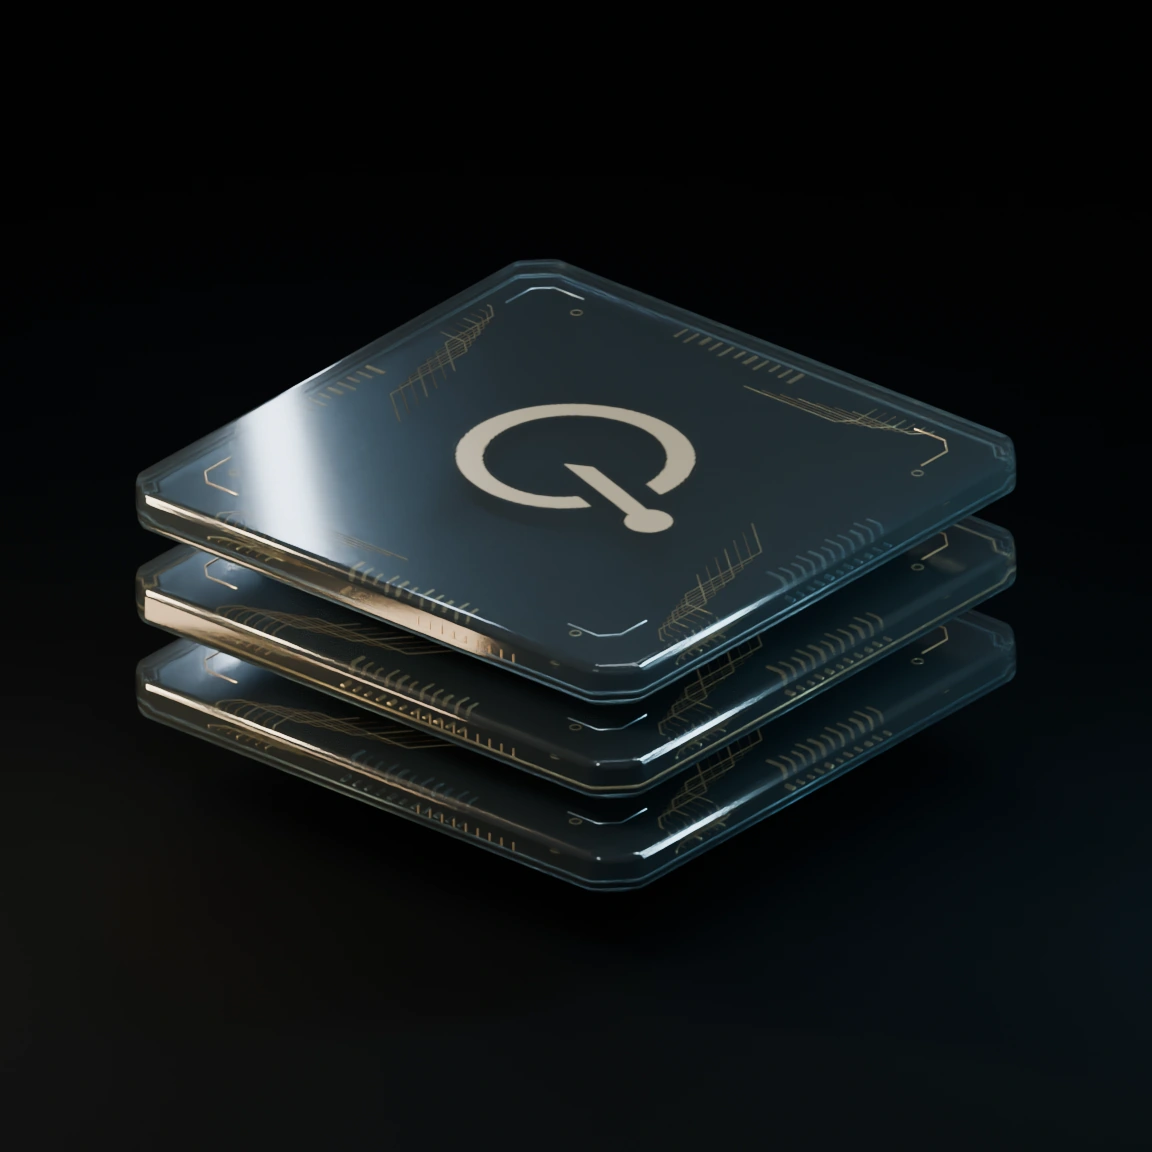
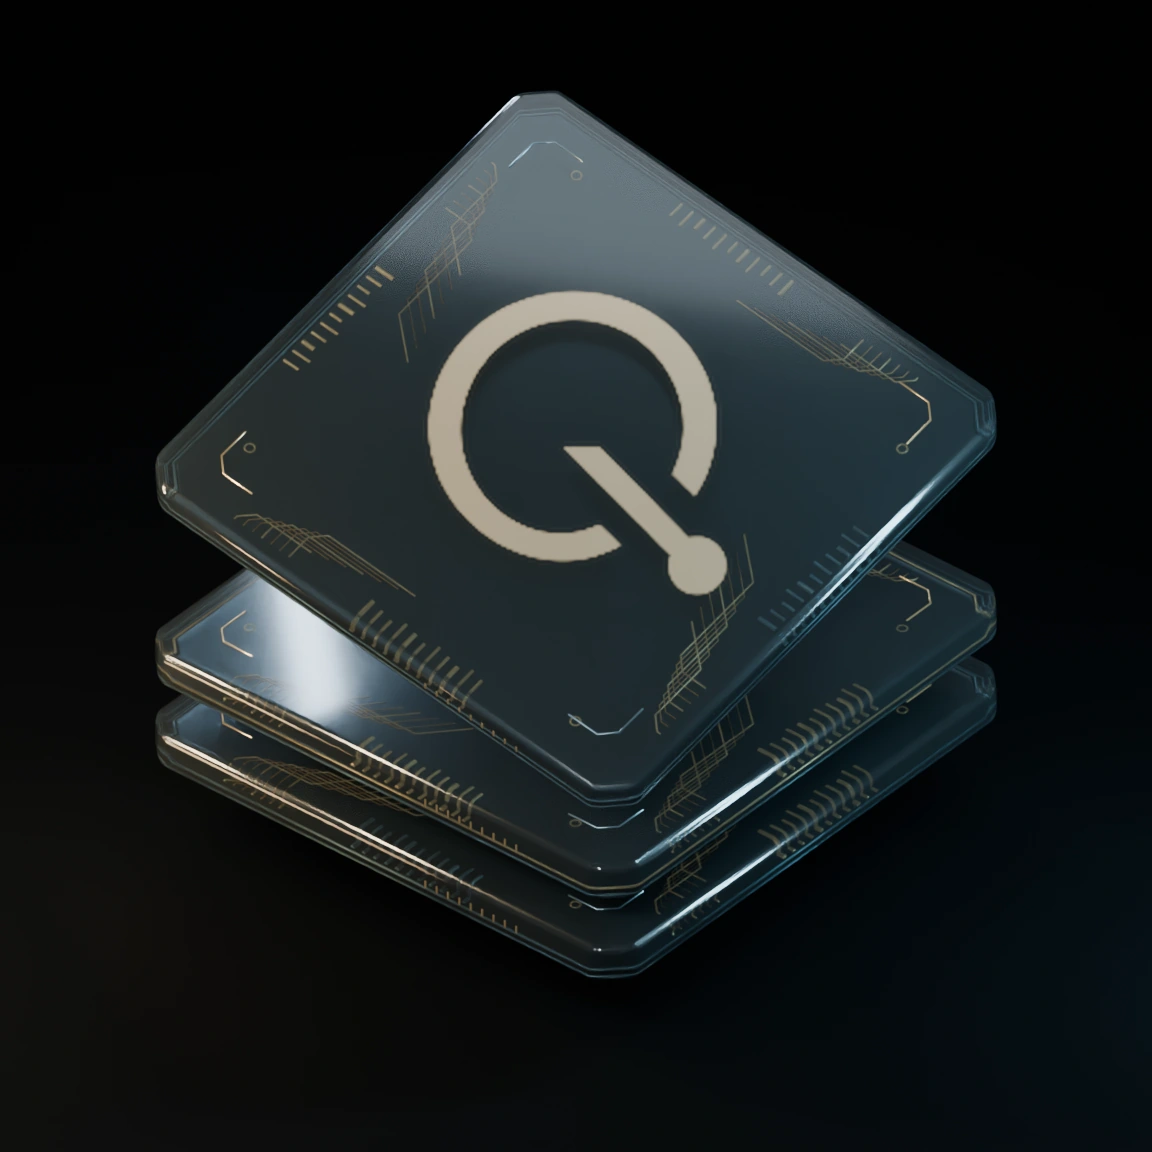
Remove the guest-list example and clarify Quorum’s Mongolian identity

Changed region(s): [[0.0938, 0.0625, 0.9062, 0.8438]]

diff --git a/assets/site.css b/assets/site.css
@@ -22,7 +22,7 @@
   background: var(--ink); color: var(--white); scroll-behavior: smooth; scroll-padding-top: 90px;
 }
 * { box-sizing: border-box; }
-body, figure, h1, h2, h3, p, ol { margin: 0; }
+body, figure, h1, h2, h3, p { margin: 0; }
 a { color: inherit; text-decoration: none; }
 a, button { -webkit-tap-highlight-color: transparent; }
 button { color: inherit; font: inherit; }
@@ -43,23 +43,23 @@ a:focus-visible, button:focus-visible { outline: 2px solid var(--ice); outline-o
 .languages a { border-radius: inherit; min-width: 38px; text-align: center; padding: 6px; color: var(--silver); font: 650 .74rem/1.45 Manrope, sans-serif; }
 .languages a[aria-current="page"] { color: #182328; background: linear-gradient(#f1f5f3,#aab9bb); box-shadow: inset 0 1px white; }
 .hero {
-  position: relative; isolation: isolate; overflow: hidden; padding-bottom: clamp(36px, 4.3vw, 72px);
+  position: relative; isolation: isolate; overflow: hidden;
   background: radial-gradient(ellipse at 72% 40%, #22343a80, transparent 44%), radial-gradient(ellipse at 100% 80%, #35322658, transparent 34%), linear-gradient(115deg, #0a0e13, #10181d 68%, #0d1216);
   border-bottom: 1px solid var(--edge);
 }
 .hero::before { content: ""; position: absolute; inset: 0; z-index: -1; background-image: radial-gradient(#c2dae04a .65px, transparent .8px); background-size: 21px 21px; mask-image: linear-gradient(90deg, transparent 23%, #0004 59%, #0009); }
-.hero-grid { display: grid; grid-template-columns: 1fr 1fr; align-items: center; position: relative; min-height: clamp(440px, 37.8vw, 605px); }
+.hero-grid { display: grid; grid-template-columns: 1fr 1fr; align-items: center; position: relative; min-height: clamp(470px, 42vw, 640px); }
 .hero-copy { z-index: 1; padding-block: clamp(48px, 5vw, 78px); }
-.eyebrow, .workflow figcaption { font: 600 .72rem/1.45 ui-monospace, Consolas, monospace; text-transform: uppercase; letter-spacing: .12em; color: var(--silver); }
+.eyebrow { font: 600 .72rem/1.45 ui-monospace, Consolas, monospace; text-transform: uppercase; letter-spacing: .12em; color: var(--silver); }
 .eyebrow { display: flex; align-items: center; gap: 11px; }
-.eyebrow > i, .signal { position: relative; width: 22px; height: 1px; background: var(--gold); flex: none; }
-.eyebrow > i::after, .signal::after { content: ""; position: absolute; right: 0; top: -2px; width: 5px; height: 5px; background: var(--gold); border-radius: 100%; box-shadow: 0 0 9px #f0d09a65; }
+.eyebrow > i { position: relative; width: 22px; height: 1px; background: var(--gold); flex: none; }
+.eyebrow > i::after { content: ""; position: absolute; right: 0; top: -2px; width: 5px; height: 5px; background: var(--gold); border-radius: 100%; box-shadow: 0 0 9px #f0d09a65; }
 h1 { font-size: clamp(3.7rem, 6.55vw, 6.8rem); line-height: 1.01; letter-spacing: -.058em; word-spacing: .055em; font-weight: 510; margin: .26em 0 .28em -.055em; }
 html:lang(mn) h1 { letter-spacing: -.046em; }
 h1 span, h1 em { display: block; }
 h1 em { font-weight: 500; font-style: normal; padding: 0 .045em .07em 0; color: var(--ice); background: linear-gradient(102deg, #f3e2c6, #cad7d0 45%, #a6d8dd 75%); background-clip: text; -webkit-text-fill-color: transparent; width: fit-content; }
 .hero-desc { font-size: clamp(1.05rem, 1.3vw, 1.25rem); line-height: 1.62; max-width: 42ch; color: var(--silver); text-wrap: pretty; }
-.actions { margin-top: clamp(22px, 2.3vw, 35px); display: flex; align-items: center; flex-wrap: wrap; gap: 15px 26px; }
+.hero-copy .button { margin-top: clamp(22px, 2.3vw, 35px); }
 .button, .text-link { display: inline-flex; align-items: center; min-height: 44px; gap: 13px; }
 .button { min-height: 47px; padding: 11px 18px; color: #142027; border: 1px solid #e9f0ef; border-radius: 8px; background: linear-gradient(170deg, #f9faf3 8%, #c2d1d0 70%, #abbfc1); box-shadow: inset 0 -2px 3px #52636939, 0 5px 22px #0005; }
 .button span { font-size: 1.1rem; line-height: 1; }
@@ -67,41 +67,17 @@ h1 em { font-weight: 500; font-style: normal; padding: 0 .045em .07em 0; color: 
 .text-link { color: var(--silver); }
 .text-link span { color: var(--ice); }
 .instrument { align-self: stretch; position: relative; min-width: 0; }
-.circuit-board { position: absolute; width: 111%; aspect-ratio: 1; left: 52%; top: 50%; transform: translate(-50%,-50%); mix-blend-mode: screen; }
-.core { width: 100%; height: 100%; display: block; mix-blend-mode: screen; mask-image: radial-gradient(ellipse closest-side, black 74%, transparent 100%); }
-.glass-light { position: absolute; inset: 0; pointer-events: none; opacity: 0; background: linear-gradient(115deg, transparent 40%, #c9f5ff6b 49%, #fff9e99c 50%, transparent 59%) 120% center / 260% 100%; clip-path: polygon(12% 42%,46.5% 23%,49.2% 22.8%,87.4% 38.8%,87.8% 41.2%,54% 58.2%,50.2% 59%,13% 45.5%); }
+.circuit-board { position: absolute; width: 104%; aspect-ratio: 1; left: 52%; top: 52%; transform: translate(-50%,-50%); mix-blend-mode: screen; }
+.core { width: 100%; height: 100%; display: block; mix-blend-mode: screen; mask-image: radial-gradient(ellipse closest-side, black 87%, transparent 100%); }
 .trace { position: absolute; z-index: -1; height: 1px; width: 22%; background: linear-gradient(90deg, transparent, #97dce39e); transform-origin: right; }
-.rail-in { left: -9.9%; top: 50.8%; transform: rotate(-17deg); }
-.rail-out { right: -9.9%; top: 49.2%; transform-origin: left; transform: rotate(-17deg); background: linear-gradient(90deg,#e5c5989e,transparent); }
+.rail-in { right: 86.2%; top: 55.9%; transform: rotate(-17deg); }
+.rail-out { left: 86.2%; top: 54.1%; transform-origin: left; transform: rotate(-17deg); background: linear-gradient(90deg,#e5c5989e,transparent); }
 .trace.fine { margin-top: 6px; opacity: .36; }
 .trace:not(.fine)::after { content: ""; position: absolute; inset: -1px 0; background: linear-gradient(90deg, transparent 15%, #cef7f7 85%, white); border-radius: 3px; width: 23%; opacity: 0; filter: drop-shadow(0 0 4px #8bdfed); }
 .rail-out:not(.fine)::after { background: linear-gradient(90deg, transparent, #ffe0b0); }
 .port { position: absolute; display: block; width: 5px; height: 5px; border-radius: 50%; background: #d0f8fa; box-shadow: 0 0 9px 2px #8be2e69c; }
-.in-port { left: 12.1%; top: 50.8%; translate: -50% -50%; }
-.out-port { left: 87.9%; top: 49.2%; translate: -50% -50%; background: #ffe3ae; box-shadow: 0 0 9px 2px #f8cd7b80; }
-.flow-wrap { position: relative; z-index: 1; }
-.workflow { display: grid; grid-template-columns: minmax(150px, .68fr) minmax(0, 2.8fr) auto; align-items: center; gap: clamp(12px, 2.6vw, 40px); padding: 20px clamp(16px, 2.2vw, 34px); border: 1px solid #cedee43a; border-radius: 15px; background: linear-gradient(130deg,#b2dce31c,#6d7c8311 34%,#38484924 75%,#e3d7b91c); box-shadow: inset 0 1px #f0fdff27, inset 0 -1px #0003, 0 12px 38px #0003; backdrop-filter: blur(20px); }
-.workflow figcaption { color: #d4e5e5; display: flex; align-items: center; gap: 10px; max-width: 24ch; font-size: .68rem; }
-.workflow:focus-visible { outline: 2px solid var(--ice); outline-offset: 4px; }
-.signal { width: 12px; background: var(--ice); }
-.signal::after { background: var(--ice); }
-.steps { display: flex; list-style: none; padding: 0; min-width: 0; }
-.steps li { display: flex; align-items: center; gap: clamp(6px, .75vw, 12px); flex: 1 1 auto; color: #e7edeb; font-size: clamp(.78rem, 1vw, .96rem); line-height: 1.3; font-weight: 550; }
-.steps li:last-child { flex: 0 1 auto; }
-.step-icon { width: 33px; height: 33px; flex: none; border: 1px solid #8fa9b14d; border-radius: 8px; display: grid; place-items: center; background: linear-gradient(140deg,#3a4a4d9e,#141c22); color: var(--ice); }
-.step-icon i { display: block; position: relative; }
-.list-icon { width: 12px; height: 13px; border: 1.25px solid currentColor; border-radius: 2px; }
-.list-icon::after { content: ""; position: absolute; left: 2px; right: 2px; top: 3px; height: 1px; background: currentColor; box-shadow: 0 3px currentColor,0 6px currentColor; }
-.check-icon { width: 14px; height: 15px; background: linear-gradient(currentColor,currentColor) left 3px/100% 1px no-repeat,linear-gradient(currentColor,currentColor) left 10px/100% 1px no-repeat; }
-.check-icon::before, .check-icon::after { content: ""; position: absolute; width: 3px; height: 3px; border: 1px solid currentColor; border-radius: 50%; background: #203036; }
-.check-icon::before { top: 1px; left: 3px; }.check-icon::after { top: 8px; right: 2px; }
-.review-icon { width: 14px; height: 8px; border-left: 1.6px solid currentColor; border-bottom: 1.6px solid currentColor; transform: translateY(-2px) rotate(-45deg); }
-.wire { position: relative; flex: 1 0 12px; margin-right: clamp(5px,.9vw,14px); height: 1px; background: #829da269; overflow: visible; }
-.wire::before { content: ""; position: absolute; right: 0; width: 4px; height: 4px; border-top: 1px solid #a9bdbf; border-right: 1px solid #a9bdbf; transform: translateY(-2px) rotate(45deg); }
-.wire::after { content: ""; position: absolute; width: 28%; left: 0; top: -1px; height: 3px; border-radius: 5px; background: linear-gradient(90deg,transparent,var(--ice)); filter: drop-shadow(0 0 3px #6bffff); opacity: 0; }
-.replay { border: 1px solid var(--edge); border-radius: 50%; background: #10191e; cursor: pointer; min-width: 44px; min-height: 44px; font: 400 25px/1 "Segoe UI Symbol", sans-serif; }
-.replay:hover { background: #27343b; color: var(--ice); }
-.replay[hidden] { display: none; }
+.in-port { left: 13.8%; top: 55.9%; translate: -50% -50%; }
+.out-port { left: 86.2%; top: 54.1%; translate: -50% -50%; background: #ffe3ae; box-shadow: 0 0 9px 2px #f8cd7b80; }
 .story { padding-block: clamp(68px, 8vw, 128px); display: grid; grid-template-columns: 1.38fr .78fr; align-items: center; gap: clamp(32px, 6.5vw, 105px); }
 .story h2 { font-size: clamp(2rem, 3.25vw, 3.65rem); font-weight: 470; line-height: 1.15; letter-spacing: -.052em; margin: 24px 0 32px; text-wrap: pretty; }
 .principles { display: grid; grid-template-columns: 1fr 1fr; gap: 8%; padding-top: 22px; border-top: 1px solid var(--edge); }
@@ -123,24 +99,13 @@ h1 em { font-weight: 500; font-style: normal; padding: 0 .045em .07em 0; color: 
 .footer { display: flex; align-items: center; justify-content: space-between; padding-block: 21px; border-top: 1px solid var(--edge); }
 .footer img { width: 93px; }
 @keyframes signal-travel { 0% {transform:translateX(0);opacity:0} 15%,77% {opacity:1} 100% {transform:translateX(263%);opacity:0} }
-@keyframes terminal-glow { 35%,65% {border-color:#b5e7eac9; color:white; box-shadow:0 0 15px #91c6d132,inset 0 0 13px #85c4da25} }
 @keyframes arrive { from {transform:translateY(13px); opacity:.2} to {transform:none;opacity:1} }
-@keyframes refract { 0% {background-position: 120% center;opacity:0} 20%,70% {opacity:.48} 100% {background-position: -20% center;opacity:0} }
 @media (prefers-reduced-motion: no-preference) {
   .hero-copy h1 { animation: arrive .65s ease-out both; }
-  .hero.running .wire::after { animation: signal-travel .78s ease-in-out .5s both; }
-  .hero.running li:nth-child(2) .wire::after { animation-delay: 1.85s; }
-  .hero.running .step-icon { animation: terminal-glow .95s ease-out both; }
-  .hero.running li:nth-child(2) .step-icon { animation-delay: 1.1s; }
-  .hero.running li:nth-child(3) .step-icon { animation-delay: 2.45s; }
-  .hero.running .rail-in:not(.fine)::after { animation: signal-travel 1.25s ease-in .1s both; }
-  .hero.running .rail-out:not(.fine)::after { animation: signal-travel 1.25s ease-out 1.8s both; }
-  .hero.running .glass-light { animation: refract 1.65s ease-in-out .82s both; }
+  .rail-in:not(.fine)::after { animation: signal-travel 1.25s ease-in .1s both; }
+  .rail-out:not(.fine)::after { animation: signal-travel 1.25s ease-out 1.8s both; }
 }
 @media (max-width: 1000px) {
-  .workflow { grid-template-columns: 1fr auto; gap: 12px; }
-  .workflow figcaption { grid-column: 1; max-width: none; }.steps { grid-row: 2; }
-  .replay { grid-row: 1 / 3; grid-column: 2; }
   .hero-grid { grid-template-columns: 1.08fr 1fr; }
   .story { grid-template-columns: 1.4fr .7fr; gap: 24px; }
 }
@@ -155,16 +120,8 @@ h1 em { font-weight: 500; font-style: normal; padding: 0 .045em .07em 0; color: 
   h1 { font-size: clamp(3.45rem,10.4vw,5rem); }
   .hero-desc { font-size: 1rem; max-width: 41ch; }
   .eyebrow { font-size: .65rem; }
-  .instrument { height: clamp(210px, 52vw, 315px); margin: 5px 0 0; }
+  .instrument { height: clamp(245px, 75vw, 380px); margin: 14px 0 9px; }
   .circuit-board { width: min(100%, 410px); left: 50%; }
-  .workflow { position: relative; grid-template-columns: 1fr; gap: 15px; padding: 16px; }
-  .steps { grid-row:auto; }
-  .steps li { flex:1 1 0; flex-direction:column; justify-content:flex-start; text-align:center; font-size:.77rem; gap:8px; position:relative; }
-  .steps li:last-child { flex:1 1 0; }
-  .step-icon { width:31px; height:31px; }
-  .wire { position:absolute; left:calc(50% + 21px); right:calc(-50% + 21px); top:15px; margin:0; }
-  .replay { position:absolute; right:5px; top:1px; grid-row:auto; grid-column:auto; border:0; background:transparent; font-size:20px; }
-  .workflow figcaption { padding-right:25px; }
   .story { grid-template-columns: 1fr; gap: 30px; padding-block: 51px; }
   .story h2 { margin: 18px 0 25px; }
   .place img { aspect-ratio:2.1; object-position:50% 42%; }
@@ -178,7 +135,6 @@ h1 em { font-weight: 500; font-style: normal; padding: 0 .045em .07em 0; color: 
 }
 @media (prefers-reduced-motion: reduce) {
   :root { scroll-behavior: auto; }
-  .replay { display: none; }
 }
 @media (forced-colors: active) {
   h1 em { -webkit-text-fill-color: currentColor; }

diff --git a/index.html b/index.html
@@ -9,15 +9,14 @@
   <meta property="og:type" content="website">
   <meta property="og:title" content="Quorum — Монголд бүтээсэн программ хангамж">
   <meta property="og:description" content="Өдөржин мэдээлэл хуулж суух ажлыг хэдхэн мөр кодоор шийдэж болно. Бид ийм давтагддаг ажлыг автоматжуулах программ бүтээдэг.">
-  <meta property="og:image" content="https://quorum.mn/assets/optical-core.webp">
+  <meta property="og:image" content="https://quorum.mn/assets/optical-core.webp?v=2">
   <meta property="og:url" content="https://quorum.mn/">
   <link rel="canonical" href="https://quorum.mn/">
   <link rel="alternate" hreflang="mn" href="https://quorum.mn/">
   <link rel="alternate" hreflang="en" href="https://quorum.mn/en/">
   <link rel="alternate" hreflang="x-default" href="https://quorum.mn/">
   <link rel="icon" href="./assets/quorum.png?v=2" type="image/png">
-  <link rel="stylesheet" href="./assets/site.css?v=glass">
-  <script defer src="./assets/flow.js"></script>
+  <link rel="stylesheet" href="./assets/site.css?v=glass2">
 </head>
 <body id="top">
   <a class="skip" href="#content">Үндсэн хэсэг рүү очих</a>
@@ -40,40 +39,25 @@
           <p class="eyebrow studio"><i aria-hidden="true"></i>Монголын программ хангамжийн студи</p>
           <h1 id="hero-title"><span>Хүний цаг</span><em>үнэ цэнтэй.</em></h1>
           <p class="hero-desc">Өдөржин мэдээлэл хуулж суух ажлыг хэдхэн мөр кодоор шийдэж болно. Бид ийм давтагддаг ажлыг автоматжуулах программ бүтээдэг.</p>
-          <div class="actions">
-            <a class="button" href="#workflow">Жишээг үзэх<span aria-hidden="true">→</span></a>
-            <a class="text-link" href="https://intel.quorum.mn/">Дэлгүүрт зочлох<span aria-hidden="true">↗</span></a>
-          </div>
+          <a class="button" href="https://intel.quorum.mn/">Дэлгүүрт зочлох<span aria-hidden="true">↗</span></a>
         </div>
         <div class="instrument" aria-hidden="true">
           <div class="circuit-board">
             <i class="trace rail-in"></i><i class="trace rail-out"></i>
             <i class="trace rail-in fine"></i><i class="trace rail-out fine"></i>
-            <img class="core" src="./assets/optical-core.webp" alt="" width="1152" height="1152" fetchpriority="high">
-            <i class="glass-light"></i>
+            <img class="core" src="./assets/optical-core.webp?v=2" alt="" width="1152" height="1152" fetchpriority="high">
             <i class="port in-port"></i><i class="port out-port"></i>
           </div>
         </div>
-      </div>
-      <div class="wrap flow-wrap">
-        <figure class="workflow" id="workflow" tabindex="-1">
-          <figcaption><i aria-hidden="true" class="signal"></i>Зочдын бүртгэлийг автоматжуулах нь</figcaption>
-          <ol class="steps">
-            <li><span class="step-icon"><i class="list-icon" aria-hidden="true"></i></span>Зочдын жагсаалт<i class="wire" aria-hidden="true"></i></li>
-            <li><span class="step-icon"><i class="check-icon" aria-hidden="true"></i></span>Давхардлыг шалгах<i class="wire" aria-hidden="true"></i></li>
-            <li><span class="step-icon"><i class="review-icon" aria-hidden="true"></i></span>Хянахад бэлэн</li>
-          </ol>
-          <button type="button" class="replay" aria-label="Жишээг дахин үзэх" title="Жишээг дахин үзэх" hidden><span aria-hidden="true">↻</span></button>
-        </figure>
       </div>
     </section>
     <section id="story" class="story wrap" aria-labelledby="story-title">
       <div class="story-copy">
         <p class="eyebrow"><i aria-hidden="true"></i>Бидний тухай</p>
-        <h2 id="story-title">Манай Quorum баг Монголд ажилладаг. Бид өдөр тутмын ажилд хэрэгтэй программ, гарын авлагаа монгол, англи хэлээр бүтээдэг.</h2>
+        <h2 id="story-title">Quorum бол Монголын программ хангамжийн компани. Бид хүмүүсийн өдөр бүр гараар давтан хийдэг ажлыг автоматжуулдаг.</h2>
         <div class="principles">
           <article><h3>Бидний эрхэм зорилго</h3><p>Эхлээд бид хүмүүс ажлаа хэрхэн хийдгийг ажигладаг. Тэгээд байнга давтагддаг хэсгийг нь автоматжуулж, хүн өөрөө үр дүнг нь шалгах боломжтой программ бичиж туршдаг.</p></article>
-          <article><h3>Бидний зорилго</h3><p>Жижиг багийнхан зочноо угтах, үйлчлүүлэгчдээ туслах завтай байж, орой ажлаа цагтаа дуусгаасай гэж бид хүсдэг.</p></article>
+          <article><h3>Бидний зорилго</h3><p>Хүмүүс шийдвэрээ яаралгүй гаргаж, хамт ажилладаг хүндээ туслах завтай байгаасай гэж бид хүсдэг.</p></article>
         </div>
       </div>
       <figure class="place">

diff --git a/en/index.html b/en/index.html
@@ -9,15 +9,14 @@
   <meta property="og:type" content="website">
   <meta property="og:title" content="Quorum — Software made in Mongolia">
   <meta property="og:description" content="A few lines of code can spare someone a day of copying and pasting. We build software for the work that keeps repeating.">
-  <meta property="og:image" content="https://quorum.mn/assets/optical-core.webp">
+  <meta property="og:image" content="https://quorum.mn/assets/optical-core.webp?v=2">
   <meta property="og:url" content="https://quorum.mn/en/">
   <link rel="canonical" href="https://quorum.mn/en/">
   <link rel="alternate" hreflang="mn" href="https://quorum.mn/">
   <link rel="alternate" hreflang="en" href="https://quorum.mn/en/">
   <link rel="alternate" hreflang="x-default" href="https://quorum.mn/">
   <link rel="icon" href="../assets/quorum.png?v=2" type="image/png">
-  <link rel="stylesheet" href="../assets/site.css?v=glass">
-  <script defer src="../assets/flow.js"></script>
+  <link rel="stylesheet" href="../assets/site.css?v=glass2">
 </head>
 <body id="top">
   <a class="skip" href="#content">Skip to content</a>
@@ -40,40 +39,25 @@
           <p class="eyebrow studio"><i aria-hidden="true"></i>Mongolian software studio</p>
           <h1 id="hero-title"><span>Time belongs</span><em>to people.</em></h1>
           <p class="hero-desc">A few lines of code can spare someone a day of copying and pasting. We build software for the work that keeps repeating.</p>
-          <div class="actions">
-            <a class="button" href="#workflow">See the workflow<span aria-hidden="true">→</span></a>
-            <a class="text-link" href="https://intel.quorum.mn/">Visit the store<span aria-hidden="true">↗</span></a>
-          </div>
+          <a class="button" href="https://intel.quorum.mn/">Visit the store<span aria-hidden="true">↗</span></a>
         </div>
         <div class="instrument" aria-hidden="true">
           <div class="circuit-board">
             <i class="trace rail-in"></i><i class="trace rail-out"></i>
             <i class="trace rail-in fine"></i><i class="trace rail-out fine"></i>
-            <img class="core" src="../assets/optical-core.webp" alt="" width="1152" height="1152" fetchpriority="high">
-            <i class="glass-light"></i>
+            <img class="core" src="../assets/optical-core.webp?v=2" alt="" width="1152" height="1152" fetchpriority="high">
             <i class="port in-port"></i><i class="port out-port"></i>
           </div>
         </div>
-      </div>
-      <div class="wrap flow-wrap">
-        <figure class="workflow" id="workflow" tabindex="-1">
-          <figcaption><i aria-hidden="true" class="signal"></i>Guest list automation</figcaption>
-          <ol class="steps">
-            <li><span class="step-icon"><i class="list-icon" aria-hidden="true"></i></span>Guest list<i class="wire" aria-hidden="true"></i></li>
-            <li><span class="step-icon"><i class="check-icon" aria-hidden="true"></i></span>Check duplicates<i class="wire" aria-hidden="true"></i></li>
-            <li><span class="step-icon"><i class="review-icon" aria-hidden="true"></i></span>Ready for review</li>
-          </ol>
-          <button type="button" class="replay" aria-label="Replay example" title="Replay example" hidden><span aria-hidden="true">↻</span></button>
-        </figure>
       </div>
     </section>
     <section id="story" class="story wrap" aria-labelledby="story-title">
       <div class="story-copy">
         <p class="eyebrow"><i aria-hidden="true"></i>Who we are</p>
-        <h2 id="story-title">We’re Quorum, a software studio in Mongolia. We make tools and write practical guides in Mongolian and English.</h2>
+        <h2 id="story-title">Quorum is a Mongolian software company. We build tools that automate everyday tasks people do by hand.</h2>
         <div class="principles">
           <article><h3>Our mission</h3><p>We start by watching how people do a job. Then we write and test software for the steps that repeat, so the person doing the work can check the result.</p></article>
-          <article><h3>Our goal</h3><p>We want small teams to have time to welcome a guest, help a customer or simply finish work on time.</p></article>
+          <article><h3>Our goal</h3><p>We want people to have time to think through a decision or give a colleague a hand.</p></article>
         </div>
       </div>
       <figure class="place">
